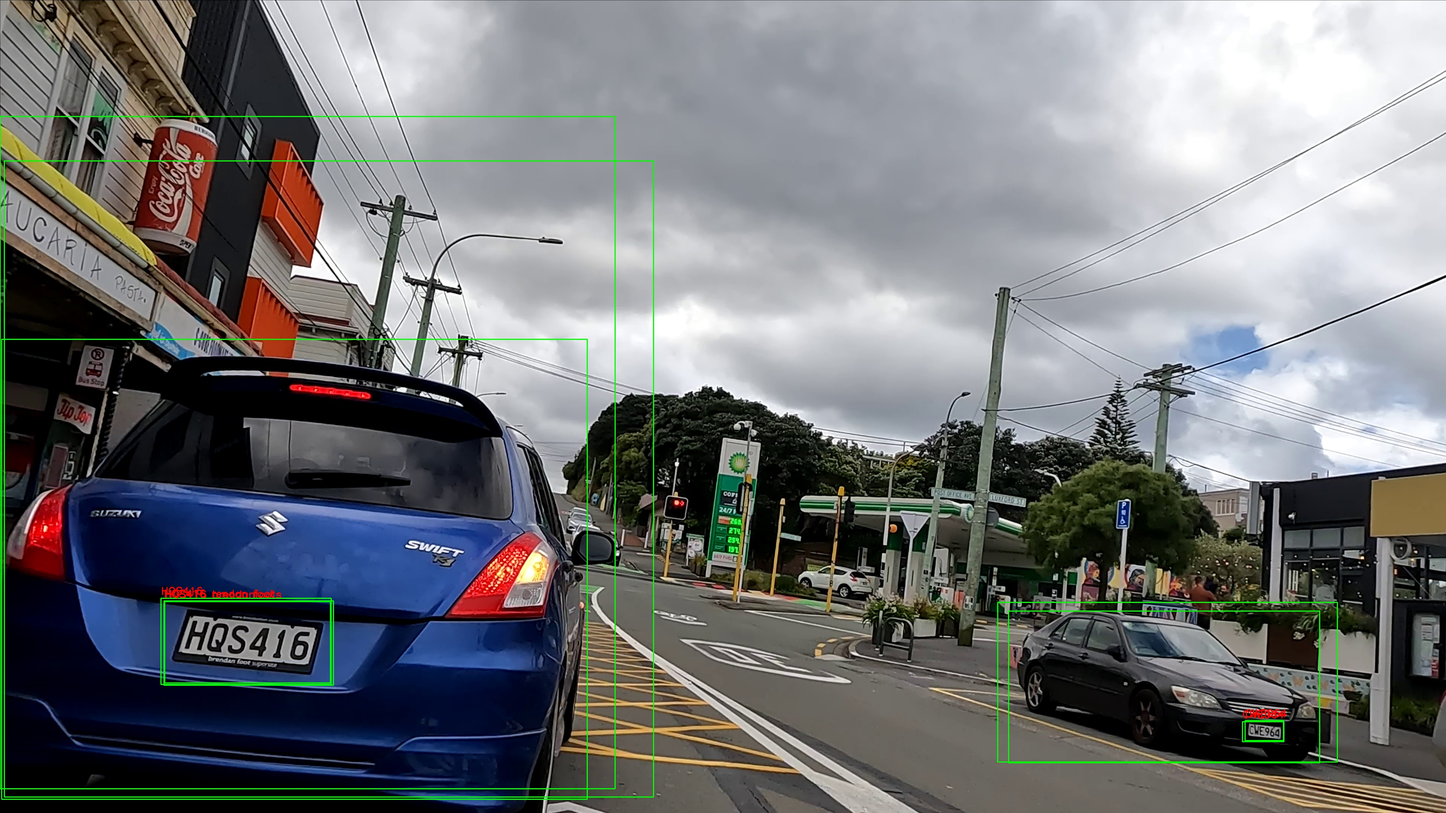
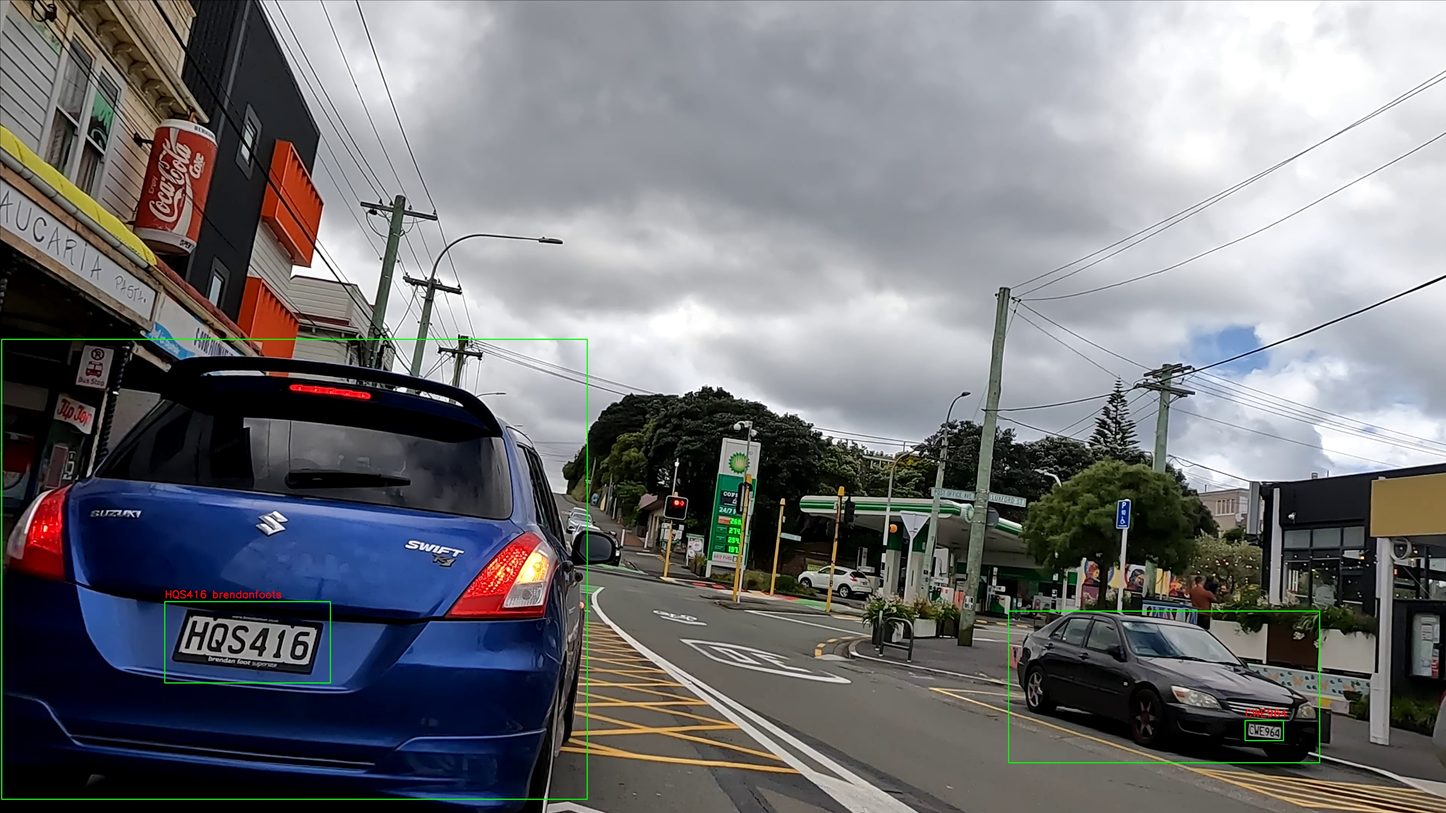
added Non-Maximum Suppression (NMS) to reduce duplicate detections

diff --git a/app/src/app.py b/app/src/app.py
@@ -4,6 +4,7 @@ import torch
 import cv2
 import logging
 from torchvision import models, transforms
+from torchvision.ops import nms
 #from torchvision.models import  resnet50, ResNet50_Weights
 from PIL import Image
 from ultralytics import YOLO
@@ -31,12 +32,26 @@ model_plates.eval()
 transform = transforms.Compose([transforms.ToTensor()])
 
 # Function to detect objects (cars)
-def detect_objects_cars(image_path):
+def detect_objects_cars(image_path, iou_threshold=0.5):
     image = Image.open(image_path)
     image_tensor = transform(image).unsqueeze(0)
     with torch.no_grad():
-        prediction = model_cars(image_tensor)
-    return prediction
+        results = model_cars(image_tensor)
+
+    # Extract bounding boxes, confidence scores, and class labels
+    predictions = results[0]
+    boxes = predictions['boxes']
+    scores = predictions['scores']
+    labels = predictions['labels']
+
+    # Apply Non-Maximum Suppression (NMS)
+    keep = nms(boxes, scores, iou_threshold)
+    boxes = boxes[keep].cpu().numpy()
+    scores = scores[keep].cpu().numpy()
+    labels = labels[keep].cpu().numpy()
+    
+    #return prediction
+    return {"image": image, "boxes": boxes, "scores": scores, "labels": labels}
 
 # Function to detect objects (license plates)
 def detect_objects_plates(roi):
@@ -58,15 +73,21 @@ def extract_text_from_image(roi):
 def process_image(image_path, output_path):
     print(f"Processing image: {image_path}")
     results_cars = detect_objects_cars(image_path)
+    boxes = results_cars['boxes']
 
     image = cv2.imread(image_path)
-    for box_car in results_cars[0]['boxes']:
-        c_x1, c_y1, c_x2, c_y2 = box_car.int().numpy()
-        #cv2.rectangle(image, (c_x1, c_y1), (c_x2, c_y2), (0, 255, 0), 2) # Draws bounding box
-        #print(f"Detected car box: {box_car}")
+    #for box_car in results_cars[0]['boxes']:
+    for box_car in boxes:
+        #c_x1, c_y1, c_x2, c_y2 = box_car.int().numpy()
+        c_x1, c_y1, c_x2, c_y2 = box_car.astype(int)
 
         # Extract the region of interest (ROI) for the car
         roi_car = image[c_y1:c_y2, c_x1:c_x2]            
+
+        # Check if the ROI has non-zero dimensions
+        if roi_car.shape[0] == 0 or roi_car.shape[1] == 0:
+            print(f"Skipping empty ROI for car: {box_car}")
+            continue
 
         results_plates = detect_objects_plates(roi_car)
         for license_plate in results_plates.boxes.data.tolist():
